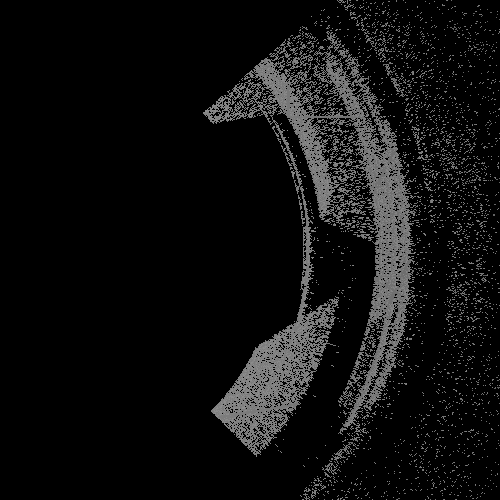
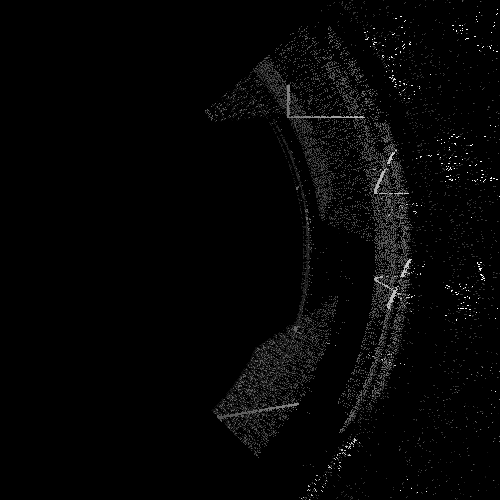
Rotacion

diff --git a/Proyecto2/radar.py b/Proyecto2/radar.py
@@ -19,10 +19,10 @@ def Desplazarse(X, Y, Angulo, listaTiempos, Tiempo, Rebotes):
 				listaTiempos.append(Tiempo)
 				listaTiempos=CrearRebotes(X, Y, Angulo, listaTiempos, Tiempo, Rebotes-1)
 			else:
-				'''if Rebotes<3:
-					pixelesResultado[X,Y]=255
-				else:
-					pixelesResultado[X,Y]=155'''
+				#if Rebotes<3:
+				#	pixelesResultado[X,Y]=255
+				#else:
+				#	pixelesResultado[X,Y]=100
 				X+=1*math.sin(Angulo)
 				Y+=1*math.cos(Angulo)
 				return Desplazarse(X, Y, Angulo, listaTiempos, Tiempo+1, Rebotes)
@@ -53,7 +53,7 @@ def FabricAngulosSec(X, Y,Ang):
 
 def LanzarRayoSec(X, Y, AnguloPrin,Angulo):
 	listaTiempos=Desplazarse(X, Y, Angulo, [], 0,3)
-	contador=0
+	contador=1
 	try:
 		if listaTiempos!=[]:
 			for Tiempos in listaTiempos:
@@ -74,14 +74,13 @@ def LanzarRayo(X, Y, Angulo):
 			for Tiempos in listaTiempos:
 				XFinal=Tiempos*math.sin(Angulo)+X
 				YFinal=Tiempos*math.cos(Angulo)+Y
-				pixelesResultado[XFinal, YFinal]=CalcularColor(Tiempos-contador*1/7)
+				pixelesResultado[XFinal, YFinal]=CalcularColor(Tiempos-contador*1/5)
 				contador+=1
 	except (IndexError):
 		pass
 
 def CalcularColor(Tiempo):
-	intensidad=Tiempo*1/8
-	return int(abs(155-intensidad))
+	return int(abs(155-Tiempo))
 
 def Borrar():
 	'''
